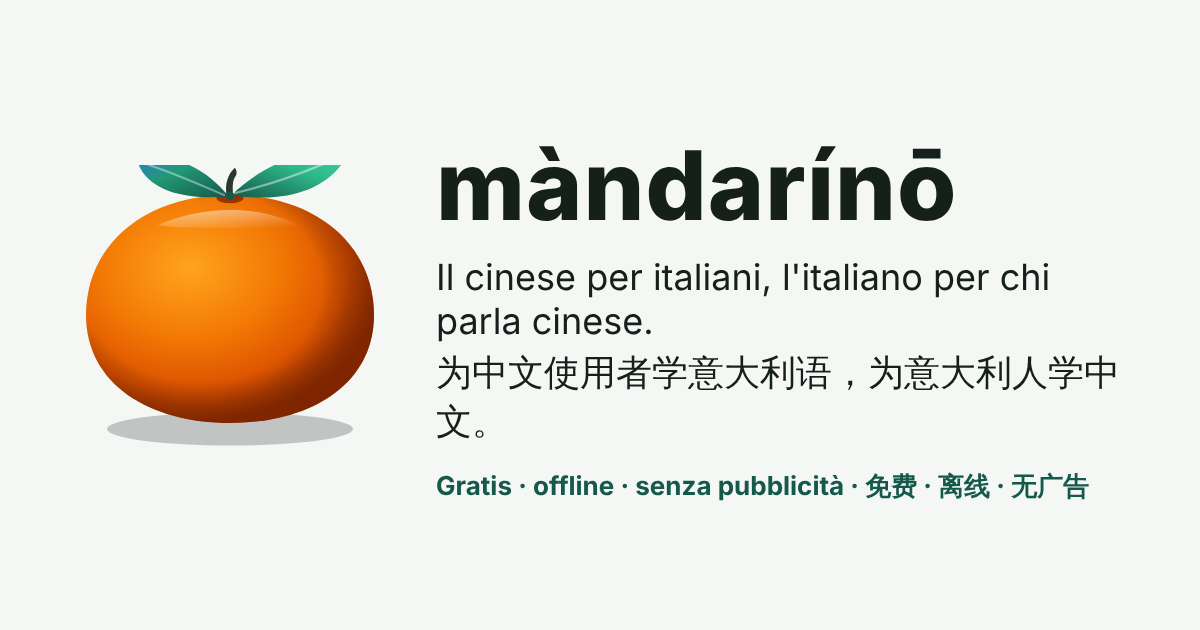
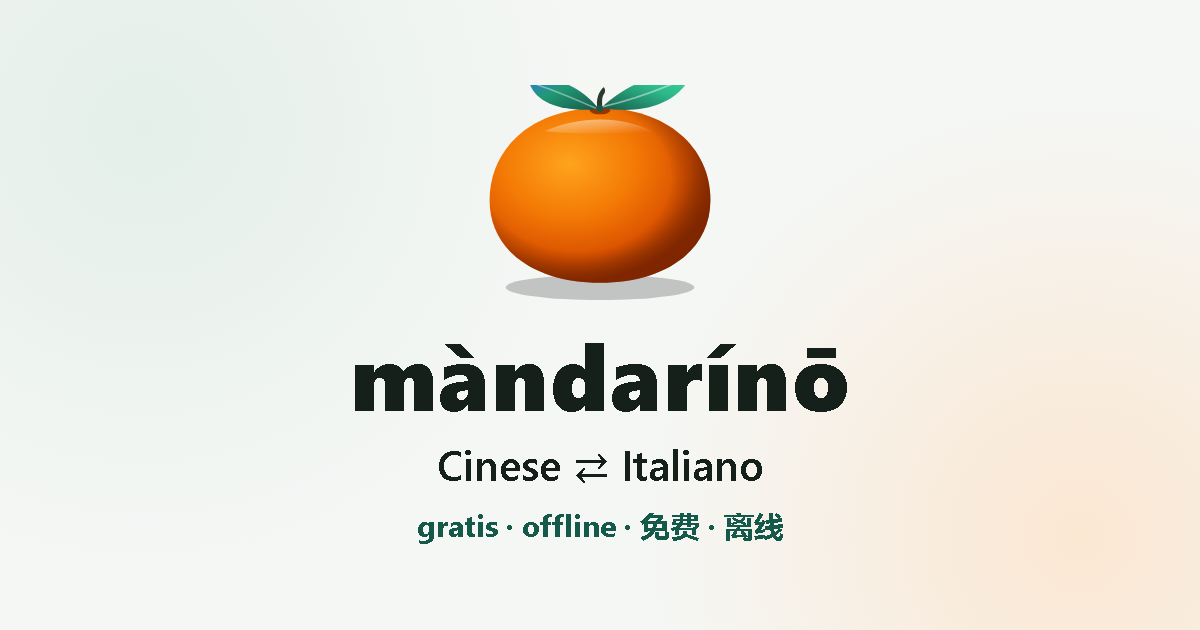
Scambio linguistico, parte 2: serie a caso di frasi e parole, tre autorizzazioni, un solo tasto per l'e-mail con il file preparato dall'app; anteprime dei link non più ritagliate

Changed region(s): [[0.0617, 0.1206, 1.0, 1.0], [0.3392, 0.8143, 0.6783, 0.8746]]

diff --git a/src/ui/scambio.js b/src/ui/scambio.js
@@ -7,10 +7,10 @@
    come vuole (Condividi o e-mail). Nessuna rete. Si carica al primo uso di CP.scambio. ===== */
 (function () {
   var CP = window.CP, T = CP.t, esc = CP.esc, LIM = 8000, MAXSEND = 200, SITE = "https://mandarinoapp.org/partecipa-voci.html?da=app", MAIL = "mandarinoapp@gmail.com";
-  var DB = null, S = { cur: null, skip: {}, rec: null, blob: null, ms: 0, busy: false, mime: "", err: "", sentFile: null };
+  var DB = null, PRE = null, S = { queue: null, qi: 0, cur: null, skip: {}, rec: null, blob: null, ms: 0, busy: false, mime: "", err: "", sentFile: null };
 
   /* ---- consenso (localStorage, chiave senza «cp-»: non entra nei backup) ---- */
-  function consent() { try { var o = JSON.parse(localStorage.getItem("md-voice-consent") || "null"); return o && o.age && o.ok ? o : null; } catch (e) { return null; } }
+  function consent() { try { var o = JSON.parse(localStorage.getItem("md-voice-consent") || "null"); return o && o.age && o.ok && o.pub ? o : null; } catch (e) { return null; } }
   function setConsent(o) { try { if (o) localStorage.setItem("md-voice-consent", JSON.stringify(o)); else localStorage.removeItem("md-voice-consent"); } catch (e) {} }
   function opt(k, v) { var o = consent() || {}; o[k] = v; setConsent(o); }
 
@@ -61,12 +61,28 @@
   }
   function textOf(p, lang) { return lang === "zh-CN" ? p.zh : p.it; }
   function recId(ref, lang, nat) { return ref + "|" + lang + "|" + (nat ? "n" : "x"); }
-  function nextSentence(recs) {
+  /* le parole: il carattere e il suo significato breve (riferimento w:<parola>) */
+  var WPOOL = null;
+  function words() {
+    if (WPOOL) return WPOOL;
+    WPOOL = [];
+    (CP.ORDER || []).forEach(function (k) {
+      var w = CP.WORDS[k]; if (!w) return;
+      var g = String(CP.gloss ? CP.gloss(w) : ""), hz = w.hz;
+      if (hz && Array.from(hz).length <= 4 && g && g.length <= 24 && !/[;(\/]/.test(g)) WPOOL.push({ ref: "w:" + hz, zh: hz, it: g, word: true });
+    });
+    return WPOOL;
+  }
+  function shuffle(a) { a = a.slice(); for (var i = a.length - 1; i > 0; i--) { var j = Math.floor(Math.random() * (i + 1)), t = a[i]; a[i] = a[j]; a[j] = t; } return a; }
+  var SERIES = 10, WORDS_PER = 3;
+  /* una serie a caso di frasi (7) e parole (3) non ancora registrate né saltate, mescolate */
+  function makeQueue(recs) {
     var lang = curLang(), nat = native(), have = {};
     recs.forEach(function (r) { have[r.id] = 1; });
-    var P = pool();
-    for (var i = 0; i < P.length; i++) { var id = recId(P[i].ref, lang, nat); if (!have[id] && !S.skip[id]) return P[i]; }
-    return null;
+    function free(p) { var id = recId(p.ref, lang, nat); return !have[id] && !S.skip[id]; }
+    var sen = shuffle(pool().filter(free)).slice(0, SERIES - WORDS_PER), wd = shuffle(words().filter(free)).slice(0, WORDS_PER);
+    if (sen.length < SERIES - WORDS_PER) wd = shuffle(words().filter(free)).slice(0, SERIES - sen.length);
+    return shuffle(sen.concat(wd));
   }
 
   /* ---- la registrazione ---- */
@@ -125,20 +141,42 @@
     });
   }
   function markSent(ids) { return all().then(function (rs) { return Promise.all(rs.filter(function (r) { return ids.indexOf(r.id) >= 0; }).map(function (r) { r.sent = Date.now(); return put(r); })); }); }
-  function send(how) {
-    all().then(function (rs) {
-      rs = rs.filter(function (r) { return !r.sent; });
-      if (!rs.length || !CP._zip) return;
-      return buildZip(rs).then(function (z) {
-        var name = "mandarino-voci-" + new Date().toISOString().slice(0, 10) + ".zip", file;
-        try { file = new File([z.blob], name, { type: "application/zip" }); } catch (e) { file = null; }
-        var done = function () { return markSent(z.ids).then(function () { S.sentFile = name; render(); }); };
-        if (how === "share" && file && navigator.canShare && navigator.canShare({ files: [file] })) return navigator.share({ files: [file], title: "màndarínō · voci" }).then(done, function () {});
-        var u = URL.createObjectURL(z.blob), a = document.createElement("a");
-        a.href = u; a.download = name; document.body.appendChild(a); a.click(); a.parentNode.removeChild(a); setTimeout(function () { URL.revokeObjectURL(u); }, 4000);
-        return done();
-      });
+  /* il file si prepara in anticipo, appena si apre il foglio: così il tocco su «Invia» condivide subito (il telefono vuole che
+     Condividi parta da un tocco) */
+  function prepare(rs) {
+    PRE = null;
+    var todo = rs.filter(function (r) { return !r.sent; });
+    if (!todo.length || !CP._zip) return;
+    buildZip(todo).then(function (z) {
+      var name = "mandarino-voci-" + new Date().toISOString().slice(0, 10) + ".zip", file = null;
+      try { file = new File([z.blob], name, { type: "application/zip" }); } catch (e) {}
+      PRE = { z: z, name: name, file: file };
     });
+  }
+  function body(name) {
+    var c = consent() || {};
+    return T("sc.s.body", { f: name, n: c.show && c.nick ? c.nick : "" });
+  }
+  function download(z, name) {
+    var u = URL.createObjectURL(z.blob), a = document.createElement("a");
+    a.href = u; a.download = name; document.body.appendChild(a); a.click(); a.parentNode.removeChild(a); setTimeout(function () { URL.revokeObjectURL(u); }, 4000);
+  }
+  /* «mail»: con Condividi (dove c'è) il telefono apre la scelta dell'e-mail con il file già allegato; altrimenti scarica il file e apre
+     la bozza dell'e-mail. «file»: solo il file. Si parte solo se le tre autorizzazioni sono firmate. */
+  function send(how) {
+    if (!consent()) { consentSheet(); return; }
+    var go = function (pre) {
+      var done = function () { return markSent(pre.z.ids).then(function () { S.sentFile = pre.name; render(); }); };
+      var subject = T("sc.s.subject");
+      if (how === "mail" && pre.file && navigator.canShare && navigator.canShare({ files: [pre.file] })) {
+        return navigator.share({ files: [pre.file], title: subject, text: body(pre.name) }).then(done, function () {});
+      }
+      download(pre.z, pre.name);
+      if (how === "mail") location.href = "mailto:" + MAIL + "?subject=" + encodeURIComponent(subject) + "&body=" + encodeURIComponent(body(pre.name));
+      return done();
+    };
+    if (PRE) return go(PRE);
+    all().then(function (rs) { prepare(rs); var t = setInterval(function () { if (PRE) { clearInterval(t); go(PRE); } }, 80); setTimeout(function () { clearInterval(t); }, 4000); });
   }
 
   /* ---- i fogli ---- */
@@ -151,20 +189,22 @@
       '<label class="sc-f small"><span>' + esc(T("sc.c.region")) + '</span><select id="sc-region"><option value="">' + esc(T("sc.c.none")) + "</option>" + rg.map(function (x, i) { return '<option value="' + (i + 1) + '"' + (String(c.region) === String(i + 1) ? " selected" : "") + ">" + esc(x) + "</option>"; }).join("") + "</select></label>" +
       '<label class="sc-chk"><input id="sc-ok" type="checkbox" data-sc-chk> ' + esc(T("sc.c.ok1")) + "</label>" +
       '<label class="sc-chk"><input id="sc-age" type="checkbox" data-sc-chk> ' + esc(T("sc.c.ok2")) + "</label>" +
+      '<label class="sc-chk"><input id="sc-pub" type="checkbox" data-sc-chk> ' + esc(T("sc.c.ok3")) + "</label>" +
       '<div class="acts"><button type="button" class="btn-main" id="sc-go" data-sc-go disabled>' + esc(T("sc.c.go")) + "</button></div>" +
       '<p class="small muted">' + esc(T("sc.priv")) + "</p>";
     CP.openSheet(h);
   }
   function mainSheet(recs) {
     var c = consent() || {}, sent = recs.filter(function (r) { return r.sent; }).length, todo = recs.length - sent, h;
+    prepare(recs);
     h = '<div class="fam-head"><div class="meta"><b>' + esc(T("sc.title")) + '</b><div class="small muted">' + esc(T("sc.have", { n: recs.length, s: sent })) + '</div></div><button type="button" class="fam-x btn-s" data-famclose>' + esc(T("common.close")) + "</button></div>";
     h += '<div class="acts"><button type="button" class="btn-main" data-sc-rec="own">🎙 ' + esc(T("sc.m.rec")) + "</button>" + (c.other ? '<button type="button" class="btn-s" data-sc-rec="other">🎙 ' + esc(T("sc.m.recOther")) + "</button>" : "") + "</div>";
     h += '<label class="sc-chk small"><input id="sc-other" type="checkbox" data-sc-other' + (c.other ? " checked" : "") + "> " + esc(T("sc.m.other")) + '</label><p class="small muted" style="margin:0 0 8px">' + esc(T("sc.m.otherNote")) + "</p>";
     if (todo) {
-      h += '<p class="small muted">' + esc(T("sc.s.help")) + '</p><div class="acts">' + (navigator.canShare ? '<button type="button" class="btn-s" data-sc-send="share">📤 ' + esc(T("sc.s.share")) + " (" + todo + ")</button>" : "") +
-        '<button type="button" class="btn-s" data-sc-send="file">⬇ ' + esc(T("sc.s.file")) + " (" + todo + ")</button></div>";
+      h += '<p class="small muted">' + esc(T("sc.s.help")) + '</p><div class="acts"><button type="button" class="btn-main" data-sc-send="mail">📧 ' + esc(T("sc.s.mail")) + " (" + todo + ')</button>' +
+        '<button type="button" class="btn-s" data-sc-send="file">⬇ ' + esc(T("sc.s.file")) + "</button></div>";
     }
-    if (S.sentFile) h += '<p class="small okline" role="status">' + esc(T("sc.s.done", { f: S.sentFile })) + ' <a href="mailto:' + MAIL + "?subject=" + encodeURIComponent("màndarínō · voci") + '">' + esc(MAIL) + "</a></p>";
+    if (S.sentFile) h += '<p class="small okline" role="status">' + esc(T("sc.s.done", { f: S.sentFile })) + ' <a href="mailto:' + MAIL + "?subject=" + encodeURIComponent(T("sc.s.subject")) + '">' + esc(MAIL) + "</a></p>";
     h += '<p class="small"><a href="' + SITE + '" target="_blank" rel="noopener">' + esc(T("sc.c.site")) + "</a> · " + esc(T("sc.c.siteNote")) + "</p>";
     if (recs.length) {
       h += '<h4 class="set-h">' + esc(T("sc.m.list")) + '</h4><ul class="sc-list">' + recs.map(function (r) {
@@ -177,16 +217,19 @@
     CP.openSheet(h);
   }
   function recSheet(recs) {
-    var p = S.cur = S.cur || nextSentence(recs), lang = curLang();
+    if (!S.queue) { S.queue = makeQueue(recs); S.qi = 0; }
+    var p = S.cur = S.queue[S.qi] || null, lang = curLang();
     var h = '<div class="fam-head"><div class="meta"><b>🎙 ' + esc(T("sc.m.rec")) + '</b>' + (native() ? "" : '<div class="small muted">' + esc(T("sc.m.nn")) + "</div>") + '</div><button type="button" class="fam-x btn-s" data-sc-back>' + esc(T("sc.r.back")) + "</button></div>";
-    if (!p) { CP.openSheet(h + '<p>' + esc(T("sc.r.none")) + "</p>"); return; }
-    h += '<p class="small muted" style="margin:0">' + esc(T("sc.r.prompt")) + '</p><p class="sc-big" lang="' + lang + '">' + esc(textOf(p, lang)) + '</p><p class="small muted" lang="' + (lang === "zh-CN" ? "it-IT" : "zh-CN") + '">' + esc(textOf(p, lang === "zh-CN" ? "it-IT" : "zh-CN")) + "</p>";
+    if (!p) { CP.openSheet(h + '<p>' + esc(T(S.queue.length ? "sc.r.done" : "sc.r.none")) + '</p><div class="acts">' + (S.queue.length ? '<button type="button" class="btn-main" data-sc-more>' + esc(T("sc.r.more")) + "</button>" : "") + '<button type="button" class="btn-s" data-sc-back>' + esc(T("sc.r.back")) + "</button></div>"); return; }
+    h += '<p class="small muted" style="margin:0">' + esc(T("sc.r.prompt")) + " · " + (S.qi + 1) + " / " + S.queue.length + (p.word ? " · " + esc(T("sc.r.word")) : "") + '</p><p class="sc-big" lang="' + lang + '">' + esc(textOf(p, lang)) + '</p><p class="small muted" lang="' + (lang === "zh-CN" ? "it-IT" : "zh-CN") + '">' + esc(textOf(p, lang === "zh-CN" ? "it-IT" : "zh-CN")) + "</p>";
     if (S.err) h += '<p class="small" role="alert">' + esc(S.err) + "</p>";
     if (S.busy) h += '<div class="acts"><button type="button" class="btn-main" data-sc-stop>⏹ ' + esc(T("sc.r.stop")) + '</button></div><p class="small muted" role="status">' + esc(T("sc.r.limit")) + "</p>";
     else if (S.blob) h += '<div class="acts"><button type="button" class="btn-s" data-sc-prev>▶ ' + esc(T("sc.m.play")) + '</button><button type="button" class="btn-main" data-sc-keep>' + esc(T("sc.r.keep")) + '</button><button type="button" class="btn-s" data-sc-redo>' + esc(T("sc.r.redo")) + "</button></div>";
     else h += '<div class="acts"><button type="button" class="btn-main" data-sc-start>🎙 ' + esc(T("sc.r.start")) + '</button><button type="button" class="btn-s" data-sc-skip>' + esc(T("sc.r.skip")) + "</button></div>";
     CP.openSheet(h);
   }
+  /* le tre autorizzazioni, tutte spuntate: ho capito, ho 18 anni, autorizzo la pubblicazione CC BY 4.0 */
+  function allSigned() { return ["sc-ok", "sc-age", "sc-pub"].every(function (i) { var e = document.getElementById(i); return e && e.checked; }); }
   var view = "main";
   function render() { all().then(function (recs) { if (view === "rec") recSheet(recs); else mainSheet(recs); }); }
   function open() { if (!consent()) { consentSheet(); return; } view = "main"; S.useOther = false; render(); }
@@ -196,27 +239,28 @@
   function playBlob(b) { try { if (audio) audio.pause(); var u = URL.createObjectURL(b); audio = new Audio(u); audio.onended = function () { URL.revokeObjectURL(u); }; audio.play(); } catch (e) {} }
   document.addEventListener("change", function (e) {
     var t = e.target; if (!t || !t.closest) return;
-    if (t.id === "sc-ok" || t.id === "sc-age") { var go = document.getElementById("sc-go"); if (go) go.disabled = !(document.getElementById("sc-ok").checked && document.getElementById("sc-age").checked); }
+    if (t.id === "sc-ok" || t.id === "sc-age" || t.id === "sc-pub") { var go = document.getElementById("sc-go"); if (go) go.disabled = !allSigned(); }
     if (t.hasAttribute && t.hasAttribute("data-sc-other")) opt("other", t.checked);
   });
   document.addEventListener("click", function (e) {
     var b = e.target.closest ? e.target.closest("[data-sc-go],[data-sc-rec],[data-sc-back],[data-sc-start],[data-sc-stop],[data-sc-prev],[data-sc-keep],[data-sc-redo],[data-sc-skip],[data-sc-play],[data-sc-del],[data-sc-send],[data-sc-revoke]") : null; if (!b) return;
     if (b.hasAttribute("data-sc-go")) {
-      if (!(document.getElementById("sc-ok").checked && document.getElementById("sc-age").checked)) return;
-      setConsent({ v: 1, t: Date.now(), ok: true, age: true, nick: document.getElementById("sc-nick").value.trim(), show: document.getElementById("sc-show").checked, region: document.getElementById("sc-region").value, other: false, lang: ownLang() });
+      if (!allSigned()) return;
+      setConsent({ v: 2, t: Date.now(), ok: true, age: true, pub: true, nick: document.getElementById("sc-nick").value.trim(), show: document.getElementById("sc-show").checked, region: document.getElementById("sc-region").value, other: false, lang: ownLang() });
       CP.sfx("tap"); open();
-    } else if (b.hasAttribute("data-sc-rec")) { view = "rec"; S.useOther = b.getAttribute("data-sc-rec") === "other"; S.cur = null; S.blob = null; S.err = ""; render(); }
-    else if (b.hasAttribute("data-sc-back")) { if (S.rec) S.rec.stop(); view = "main"; S.cur = null; S.blob = null; S.busy = false; render(); }
+    } else if (b.hasAttribute("data-sc-rec")) { view = "rec"; S.useOther = b.getAttribute("data-sc-rec") === "other"; S.queue = null; S.cur = null; S.blob = null; S.err = ""; render(); }
+    else if (b.hasAttribute("data-sc-back")) { if (S.rec) S.rec.stop(); view = "main"; S.queue = null; S.cur = null; S.blob = null; S.busy = false; render(); }
     else if (b.hasAttribute("data-sc-start")) start();
     else if (b.hasAttribute("data-sc-stop")) { if (S.rec) S.rec.stop(); }
     else if (b.hasAttribute("data-sc-prev")) { if (S.blob) playBlob(S.blob); }
-    else if (b.hasAttribute("data-sc-keep")) { keep().then(render); }
+    else if (b.hasAttribute("data-sc-keep")) { keep().then(function () { S.qi++; render(); }); }
+    else if (b.hasAttribute("data-sc-more")) { S.queue = null; S.skip = {}; render(); }
     else if (b.hasAttribute("data-sc-redo")) { S.blob = null; S.err = ""; render(); }
-    else if (b.hasAttribute("data-sc-skip")) { if (S.cur) S.skip[recId(S.cur.ref, curLang(), native())] = 1; S.cur = null; S.blob = null; render(); }
+    else if (b.hasAttribute("data-sc-skip")) { if (S.cur) S.skip[recId(S.cur.ref, curLang(), native())] = 1; S.qi++; S.cur = null; S.blob = null; render(); }
     else if (b.hasAttribute("data-sc-play")) { var id = b.getAttribute("data-sc-play"); all().then(function (rs) { var r = rs.filter(function (x) { return x.id === id; })[0]; if (r) playBlob(r.blob); }); }
     else if (b.hasAttribute("data-sc-del")) { del(b.getAttribute("data-sc-del")).then(function () { CP.sfx("tap"); render(); }); }
     else if (b.hasAttribute("data-sc-send")) send(b.getAttribute("data-sc-send"));
     else if (b.hasAttribute("data-sc-revoke")) { clear().then(function () { setConsent(null); S.sentFile = null; CP.closeSheet(); if (CP.toast) CP.toast(T("sc.m.revoked")); }); }
   });
-  CP.scambio = { open: open, consent: consent, all: all, put: put, del: del, clear: clear, pool: pool, ownLang: ownLang, manifest: manifest, buildZip: buildZip, SITE: SITE };
+  CP.scambio = { makeQueue: makeQueue, words: words, send: send, open: open, consent: consent, all: all, put: put, del: del, clear: clear, pool: pool, ownLang: ownLang, manifest: manifest, buildZip: buildZip, SITE: SITE };
 })();

diff --git a/src/i18n/scambio.js b/src/i18n/scambio.js
@@ -15,7 +15,7 @@ Object.assign(I18N.it, {
  "sc.c.none": "Preferisco non dirlo",
  "sc.c.ok1": "Ho letto e capito",
  "sc.c.ok2": "Ho almeno 18 anni",
- "sc.c.go": "Accetto e continuo",
+ "sc.c.ok3": "Autorizzo la pubblicazione delle mie registrazioni con licenza CC BY 4.0 se le invio", "sc.c.go": "Accetto e continuo",
  "sc.c.site": "Modulo del consenso sul sito",
  "sc.c.siteNote": "si apre nel browser; la firma sul sito non è obbligatoria per registrare.",
  "sc.priv": "Il foglio che hai appena letto è anche una pagina del sito mandarinoapp.org, a cui arrivi solo da qui. Niente viene inviato finché non decidi tu.",
@@ -43,8 +43,8 @@ Object.assign(I18N.it, {
  "sc.r.saved": "Registrazione salvata.",
  "sc.r.err": "Il microfono non parte: controlla il permesso e riprova.",
  "sc.r.none": "Hai già registrato tutte le frasi disponibili. Grazie!",
- "sc.r.limit": "Al massimo 8 secondi per frase.",
- "sc.s.help": "Si crea un file .zip con le registrazioni e le informazioni che hai dato; poi lo mandi tu (Condividi, oppure per e-mail). Nessun caricamento automatico.",
+ "sc.r.limit": "Al massimo 8 secondi per frase.", "sc.r.word": "parola", "sc.r.done": "Serie finita, grazie! Vuoi un'altra serie a caso?", "sc.r.more": "Un'altra serie",
+ "sc.s.help": "L'app prepara da sola il file con le tue registrazioni. Il tasto qui sotto apre l'e-mail (con il file già allegato, dove il telefono lo permette): l'invio lo fai tu. Nessun caricamento automatico.", "sc.s.mail": "Invia per e-mail", "sc.s.subject": "màndarínō · voci di madrelingua", "sc.s.body": "Ciao, ti mando le mie registrazioni per lo scambio linguistico di màndarínō (file: {f}). Dichiaro di aver letto e capito il foglio del consenso, di avere almeno 18 anni e di autorizzare la pubblicazione con licenza CC BY 4.0. {n}",
  "sc.s.share": "Condividi",
  "sc.s.file": "Scarica il file",
  "sc.s.done": "File pronto: {f}. Mandalo a"
@@ -65,7 +65,7 @@ Object.assign(I18N.zh, {
  "sc.c.none": "不想说",
  "sc.c.ok1": "我已阅读并理解",
  "sc.c.ok2": "我已年满 18 岁",
- "sc.c.go": "同意并继续",
+ "sc.c.ok3": "如果我发送录音，我授权以 CC BY 4.0 许可发布", "sc.c.go": "同意并继续",
  "sc.c.site": "网站上的同意书",
  "sc.c.siteNote": "会在浏览器中打开；录音并不要求在网站上签署。",
  "sc.priv": "你刚读过的同意书同时也是 mandarinoapp.org 网站上的一个页面，只能从这里进入。你决定之前，不会发送任何东西。",
@@ -93,8 +93,8 @@ Object.assign(I18N.zh, {
  "sc.r.saved": "录音已保存。",
  "sc.r.err": "麦克风没有启动：请检查权限后再试。",
  "sc.r.none": "能录的句子你都录完了。谢谢！",
- "sc.r.limit": "每句最多 8 秒。",
- "sc.s.help": "会生成一个 .zip 文件，包含录音和你填写的信息；然后由你自己发送（分享，或通过电子邮件）。不会自动上传。",
+ "sc.r.limit": "每句最多 8 秒。", "sc.r.word": "词", "sc.r.done": "这一组录完了，谢谢！再来一组随机的吗？", "sc.r.more": "再来一组",
+ "sc.s.help": "应用会自动准备好包含你录音的文件。下面的按钮会打开电子邮件（在手机支持时已附上文件）：由你自己发送。不会自动上传。", "sc.s.mail": "通过电子邮件发送", "sc.s.subject": "màndarínō · 母语录音", "sc.s.body": "你好，这是我为 màndarínō 语言交换录的音（文件：{f}）。我声明已阅读并理解同意书，已年满 18 岁，并授权以 CC BY 4.0 许可发布。{n}",
  "sc.s.share": "分享",
  "sc.s.file": "下载文件",
  "sc.s.done": "文件已准备好：{f}。请发送到"

diff --git a/docs/partecipa-voci.html b/docs/partecipa-voci.html
@@ -70,6 +70,7 @@ button[disabled] { opacity: .45; cursor: default; } button.sec { background: tra
 <label>Regione di provenienza (facoltativa) · <span lang="zh-CN">出生地区（可不填）</span><input id="f-region" type="text" maxlength="40" autocomplete="off" placeholder="es. Sicilia · 例如：四川"></label>
 <label class="row"><input id="f-ok" type="checkbox"><span>Ho letto e capito · <span lang="zh-CN">我已阅读并理解</span></span></label>
 <label class="row"><input id="f-age" type="checkbox"><span>Ho almeno 18 anni · <span lang="zh-CN">我已年满 18 岁</span></span></label>
+<label class="row"><input id="f-pub" type="checkbox"><span>Autorizzo la pubblicazione delle mie registrazioni con licenza CC BY 4.0 se le invio · <span lang="zh-CN">如果我发送录音，我授权以 CC BY 4.0 许可发布</span></span></label>
 <div class="acts"><button id="f-mail" type="button" disabled>Prepara l'e-mail · 准备邮件</button><button id="f-print" type="button" class="sec">Stampa o salva in PDF · 打印或存为 PDF</button></div>
 <p class="mute" id="f-note"></p>
 </form>
@@ -79,14 +80,15 @@ button[disabled] { opacity: .45; cursor: default; } button.sec { background: tra
 (function () {
   var q = new URLSearchParams(location.search);
   if (q.get("da") !== "app") document.documentElement.classList.add("nogate"), document.body.classList.add("nogate");
-  var ok = document.getElementById("f-ok"), age = document.getElementById("f-age"), mail = document.getElementById("f-mail");
-  function upd() { mail.disabled = !(ok.checked && age.checked); }
-  ok.addEventListener("change", upd); age.addEventListener("change", upd);
+  var ok = document.getElementById("f-ok"), age = document.getElementById("f-age"), pub = document.getElementById("f-pub"), mail = document.getElementById("f-mail");
+  function upd() { mail.disabled = !(ok.checked && age.checked && pub.checked); }
+  ok.addEventListener("change", upd); age.addEventListener("change", upd); pub.addEventListener("change", upd);
   mail.addEventListener("click", function () {
     var v = function (id) { return document.getElementById(id).value.trim(); };
     var body = ["Scambio linguistico · consenso / 语言交换 · 同意书", "",
       "Ho letto e capito il foglio del consenso (licenza CC BY 4.0) / 我已阅读并理解同意书（CC BY 4.0 许可）: sì / 是",
       "Ho almeno 18 anni / 我已年满 18 岁: sì / 是",
+      "Autorizzo la pubblicazione con licenza CC BY 4.0 / 授权以 CC BY 4.0 许可发布: sì / 是",
       "Lingua madre / 母语: " + document.getElementById("f-lang").value,
       "Nome o nickname / 姓名或昵称: " + (v("f-nick") || "-"),
       "Può comparire nei Crediti / 可出现在致谢: " + (document.getElementById("f-show").checked ? "sì / 是" : "no / 否"),

diff --git a/src/data/changelog.js b/src/data/changelog.js
@@ -6,7 +6,7 @@
 var CHANGELOG = [
   { v: "6.7", d: "2026-10",
     it: [
-      "Scambio linguistico (facoltativo): registra con la tua voce frasi nella tua lingua madre, per aiutare chi studia. Tutto resta sul telefono finché non decidi tu di mandarlo; prima c'è un foglio del consenso e serve avere 18 anni.",
+      "Scambio linguistico (facoltativo): registra con la tua voce frasi nella tua lingua madre, per aiutare chi studia. Frasi e parole a caso, tutto sul telefono finché non decidi tu: un solo tasto prepara il file e apre l'e-mail. Prima c'è un foglio del consenso e serve avere 18 anni.",
       "Corso di italiano: anche il tuo Taccuino del viaggiatore, da Guilin a Roma. Ogni lezione superata ti porta più vicino alla prossima città.",
       "Grammatica più ricca: 55 lezioni per il cinese e 51 per l'italiano, con mini-dialoghi, esempi con audio e un ripasso ogni cinque lezioni.",
       "Apertura animata: i quattro toni volano sulle lettere e sulle foglie del logo.",
@@ -17,7 +17,7 @@ var CHANGELOG = [
       "Su Android: widget «Oggi» e «Pausa» in stile Giada, che cambiano con l'ora (mattina, pomeriggio, sera, notte)."
     ],
     zh: [
-      "语言交换（可选）：用你的母语录下句子，帮助学习的人。在你决定发送之前，一切都只保存在手机上；录音前有同意书，需年满 18 岁。",
+      "语言交换（可选）：用你的母语录下句子，帮助学习的人。随机句子和词语，在你决定之前一切都只保存在手机上：一个按钮就会准备好文件并打开电子邮件。录音前有同意书，需年满 18 岁。",
       "意大利语课程也有旅行手账了：从桂林到罗马，每通过一课，就离下一座城市更近。",
       "语法更丰富：中文 55 课、意大利语 51 课，带小对话、有声例句，每五课一次复习。",
       "启动动画：四个声调飞到标志的字母和两片叶子上。",

diff --git a/docs/zh/index.html b/docs/zh/index.html
@@ -6,6 +6,14 @@
 <title>màndarínō · 给中国人的意大利语</title>
 <meta name="description" content="免费、离线、无广告、无需注册的意大利语学习应用。">
 <meta name="theme-color" content="#14594A">
+<meta property="og:title" content="màndarínō · 给中国人的意大利语">
+<meta property="og:description" content="免费、离线、无广告、无需注册的意大利语学习应用。">
+<meta property="og:image" content="https://mandarinoapp.org/img/anteprima.png">
+<meta property="og:image:width" content="1200">
+<meta property="og:image:height" content="630">
+<meta property="og:url" content="https://mandarinoapp.org/zh/">
+<meta property="og:type" content="website">
+<meta name="twitter:card" content="summary_large_image">
 <link rel="icon" href="../icon.svg" type="image/svg+xml">
 <!-- 中文介绍页（分享卡片上的二维码指向这里）。轻量：没有外部字体、脚本、图片或统计。
      唯一的脚本在页面里：只判断是不是微信内置浏览器，是的话提示“在浏览器中打开”。不发送任何东西。 -->

diff --git a/docs/index.html b/docs/index.html
@@ -10,6 +10,10 @@
 <meta property="og:title" content="màndarínō">
 <meta property="og:description" content="Il cinese per italiani, l'italiano per chi parla cinese. Gratis, offline, senza pubblicità. 免费、离线、无广告。">
 <meta property="og:image" content="https://mandarinoapp.org/img/anteprima.png">
+<meta property="og:image:width" content="1200">
+<meta property="og:image:height" content="630">
+<meta property="og:image:alt" content="L'icona di màndarínō, il mandarino, e la scritta Cinese ⇄ Italiano, gratis e offline.">
+<meta name="twitter:image" content="https://mandarinoapp.org/img/anteprima.png">
 <meta property="og:url" content="https://mandarinoapp.org/">
 <meta property="og:type" content="website">
 <meta name="twitter:card" content="summary_large_image">

diff --git a/docs/scambio-linguistico.md b/docs/scambio-linguistico.md
@@ -1,8 +1,9 @@
 # Scambio linguistico: voci di madrelingua
 
-> **Stato (ottobre 2026): attivo, prima parte.** Nell'app ci sono il foglio del consenso, la registrazione, l'elenco con ascolto e
-> cancellazione, e l'invio come `.zip`. **Non ci sono ancora** l'importazione (`tools/merge-contrib.mjs` per `mandarino-voice/1`) e il
-> pacchetto voci scaricabile: arrivano quando ci sono le prime registrazioni da provare. Le decisioni qui sotto sono di chi gestisce il progetto.
+> **Stato (ottobre 2026): attivo, parti 1 e 2.** Nell'app ci sono il foglio del consenso (tre autorizzazioni), la registrazione di una
+> serie a caso di frasi e parole, l'elenco con ascolto e cancellazione, e un solo tasto «Invia per e-mail» che prepara il `.zip` da sé.
+> **Non ci sono ancora** l'importazione (`tools/merge-contrib.mjs` per `mandarino-voice/1`) e il pacchetto voci scaricabile: arrivano
+> quando ci sono le prime registrazioni da provare. Le decisioni qui sotto sono di chi gestisce il progetto.
 
 ## L'idea
 
@@ -28,18 +29,20 @@ studia la frase nella propria lingua accanto alla traduzione, quindi l'esercizio
 
 ## Che cosa si registra
 
-- **Solo frasi che esistono già nell'app**, con i riferimenti di `tools/review-sample.mjs`: `phr:<gruppo>:<riga>` (frasi di tutti i
-  giorni), `dlg:<id>:<riga>` (battute dei dialoghi), `ex:<parola>` (frasi d'esempio). Niente testo libero: nessun rischio di contenuti
-  personali dentro le registrazioni.
-- Una frase per volta, con il testo grande e la traduzione sotto. Si può riascoltare, tenere o rifare; «Un'altra frase» salta.
+- **Solo frasi e parole che esistono già nell'app**, con i riferimenti di `tools/review-sample.mjs`: `phr:<gruppo>:<riga>` (frasi di tutti i
+  giorni), `dlg:<id>:<riga>` (battute dei dialoghi), `ex:<parola>` (frasi d'esempio) e `w:<parola>` (singole parole con il significato
+  breve). Niente testo libero: nessun rischio di contenuti personali dentro le registrazioni.
+- **Si registra solo dal foglio dello scambio**, che pesca a caso: una *serie* di 10 elementi (7 frasi e 3 parole) non ancora registrati né
+  saltati, senza doppioni; finita la serie, «Un'altra serie». Non ci sono pulsanti 🎙 in altri punti dell'app.
+- Una voce per volta, con il testo grande, il contatore («3 / 10») e la traduzione sotto. Si può riascoltare, tenere o rifare; «Un'altra frase» salta.
 - Si registra nella **propria** lingua: cinese nel corso di italiano (interfaccia in cinese), italiano nel corso di cinese.
 
 ## Il foglio del consenso
 
 Nell'app: ⚙ → Suoni e musica → **Scambio linguistico: la tua voce** → *Partecipa*. Otto punti (che cosa si registra e dove resta,
 CC BY 4.0, la voce si riconosce, chi ascolta, nome e regione, come chiedere di togliere una registrazione, solo maggiorenni, lingua
-madre), nome o nickname e regione facoltativi, due caselle non spuntate di base («Ho letto e capito», «Ho almeno 18 anni») e il
-pulsante «Accetto e continuo», spento finché non sono spuntate entrambe. Il consenso resta sul telefono in `md-voice-consent`
+madre), nome o nickname e regione facoltativi, tre caselle non spuntate di base («Ho letto e capito», «Ho almeno 18 anni», «Autorizzo la pubblicazione con licenza CC BY 4.0 se le invio») e il
+pulsante «Accetto e continuo», spento finché non sono spuntate tutte. Il consenso resta sul telefono in `md-voice-consent`
 (chiave senza il prefisso `cp-`: non entra nei backup né nella sincronizzazione). *Ritira il consenso e cancella tutto* toglie
 registrazioni e consenso dal telefono.
 
@@ -66,9 +69,11 @@ stampare o salvare in PDF. Per registrare basta il foglio dell'app; il modulo è
 
 - **Sul telefono**: IndexedDB `mandarino-voices-v1`, fuori dal backup e dalla sincronizzazione (pesano e sono personali). Un elenco
   nel foglio mostra le registrazioni con ascolto (▶) e cancellazione (×).
-- **L'invio**: *Condividi* (dove il telefono lo permette) o *Scarica il file*, poi la persona manda il `.zip` a mandarinoapp@gmail.com o
-  dove preferisce (come allegato a una issue, il limite è 25 MB). Le registrazioni incluse si segnano «inviata». **Nessun
-  caricamento automatico, nessuna richiesta di rete.**
+- **L'invio**: il file `.zip` lo crea l'app da sé, in anticipo, appena si apre il foglio. Un solo tasto principale, **«Invia per e-mail»**:
+  dove il telefono lo permette apre la condivisione con il file già allegato e il testo del consenso pronto per mandarinoapp@gmail.com;
+  altrimenti scarica il file e apre la bozza dell'e-mail (da allegare a mano). Parte solo se le tre autorizzazioni sono firmate
+  (senza, riappare il foglio). Un secondo tasto, «Scarica il file», salva solo il `.zip`. Le registrazioni incluse si segnano «inviata».
+  Il tasto prepara l'invio, l'invio lo fa la persona: **nessun caricamento automatico, nessuna richiesta di rete.**
 
 ## Da fare dopo, quando ci sono le prime registrazioni
 
@@ -78,4 +83,3 @@ stampare o salvare in PDF. Per registrare basta il foglio dell'app; il modulo è
    −16 LUFS, Opus/Ogg). Il nickname va nei Crediti solo se permesso. Le registrazioni `native: false` non si pubblicano come madrelingua.
 3. Il **pacchetto voci** scaricabile a parte, come la musica (⚙ → Suoni e musica → «Voci di madrelingua (N MB)»), mai all'avvio; dove
    c'è una voce vera 🔊 la usa al posto della sintesi, con il segno «voce vera» e il nickname nei dettagli. Il peso dell'APK non cambia.
-4. 🎙 accanto alle frasi nel foglio della parola e nei dialoghi (oggi si registra dal foglio dello scambio).

diff --git a/docs/FUNZIONAMENTO.md b/docs/FUNZIONAMENTO.md
@@ -235,7 +235,7 @@ Il microfono usa il riconoscimento del sistema (`SpeechRecognition`; nell'APK il
 - **Sigilli di gratitudine** (印章): codici firmati (ECDSA P-256, `MDS1.<contenuto>.<firma>`) che si riscattano nell'app; 支 Sostegno, 交 Cultura, 永 Custodire; solo estetici. L'app non sa chi ha donato. Le chiavi pubbliche stanno in `src/config.js` (**oggi la lista è vuota**: il riscatto non è ancora attivo finché non si genera una chiave con `lo strumento che genera la chiave`).
 - **Taccuino del viaggiatore** (cinese): un viaggio immaginario Roma → Guilin; le città si sbloccano con le tappe del Percorso finite; gli sbagli non sono penalità (una coppia di parole scambiata diventa un aneddoto).
 - **Taccuino del viaggiatore** (corso di italiano per chi parla cinese): lo stesso viaggio **al contrario**, da Guilin a Roma. Le 11 città si raggiungono con le **lezioni superate** (≥ 80 %): 2, 5, 9, 14, 20, 26, 32, 38, 45 e 51 (tutte). Ogni pagina ha una riga scritta a mano e le frasi della lezione che ha aperto la città; non ci sono aneddoti sugli errori e non c'è condivisione. Sta in «我的进步», come una carta con un solo pulsante secondario.
-- **Scambio linguistico** (⚙ → Suoni e musica, facoltativo): chi studia il cinese registra frasi **italiane** e chi studia l'italiano registra frasi **cinesi**, la propria lingua, una frase dell'app per volta (frasi di tutti i giorni, dialoghi, esempi) con il testo davanti e la traduzione accanto. Prima c'è un foglio del consenso: licenza **CC BY 4.0**, solo maggiorenni (due caselle, l'app non può verificare l'età), nome o nickname e regione facoltativi, ascolta soltanto chi gestisce il progetto. Le registrazioni (fino a 8 s) restano sul telefono fuori dai backup; si ascoltano, si cancellano, e si mandano come `.zip` con `manifest.json` (Condividi o file da inviare a mandarinoapp@gmail.com): nessun caricamento automatico. Registrare anche la lingua che si studia è possibile solo se lo si attiva: quelle voci sono «non madrelingua». Il modulo del consenso è una pagina nascosta del sito (`partecipa-voci.html?da=app`), raggiungibile solo dopo la conferma nell'app. Importazione e pacchetto voci: da fare (docs/scambio-linguistico.md).
+- **Scambio linguistico** (⚙ → Suoni e musica, facoltativo): chi studia il cinese registra frasi **italiane** e chi studia l'italiano registra frasi **cinesi**, la propria lingua, solo dal foglio dello scambio, che pesca a caso una serie di 10 elementi (7 frasi dell'app e 3 parole) con il testo davanti e la traduzione accanto. Prima c'è un foglio del consenso: licenza **CC BY 4.0**, solo maggiorenni (tre caselle: ho capito, 18 anni, autorizzo la pubblicazione; l'app non può verificare l'età), nome o nickname e regione facoltativi, ascolta soltanto chi gestisce il progetto. Le registrazioni (fino a 8 s) restano sul telefono fuori dai backup; si ascoltano, si cancellano, e si mandano con un solo tasto «Invia per e-mail»: l'app crea da sé il `.zip` con `manifest.json` e apre l'e-mail verso mandarinoapp@gmail.com, solo se le tre autorizzazioni sono firmate. L'invio lo fa la persona, nessun caricamento automatico. Registrare anche la lingua che si studia è possibile solo se lo si attiva: quelle voci sono «non madrelingua». Il modulo del consenso è una pagina nascosta del sito (`partecipa-voci.html?da=app`), raggiungibile solo dopo la conferma nell'app. Importazione e pacchetto voci: da fare (docs/scambio-linguistico.md).
 - **Foglio di lavoro**: un PDF A4 personale (caratteri o parole più difficili + quelli delle ultime lezioni) da stampare e scrivere a mano; si può anche condividere come codice.
 
 ---
@@ -314,7 +314,7 @@ Dipendenze di terzi dentro l'app: pochi file in `src/vendor/` (jsPDF per il Fogl
 | Dati e lezioni validi, frasi cinesi fatte di parole del vocabolario, ogni file di dati elencato | `node tools/build.mjs` | passa |
 | Frasi verificate, regole di traduzione | `node tools/grammar.mjs` | 378/378 |
 | Prove veloci senza browser (taglio in parole, FSRS, QR, sigilli, sito, peso dell'avvio, widget) | `node tools/unit.mjs` | 79/79 |
-| Prove nel browser (benvenuto, corsi, immersione, sincronizzazione, QR, sigilli, musica, voce, impostazioni, apertura…) | `node tools/e2e.mjs` | 316/316 |
+| Prove nel browser (benvenuto, corsi, immersione, sincronizzazione, QR, sigilli, musica, voce, impostazioni, apertura…) | `node tools/e2e.mjs` | 320/320 |
 | Regole di interfaccia e accessibilità | `node tools/ux-audit.mjs` | nessun problema |
 | Documenti: link, ancore, parole vietate, strutture protette | `node tools/check-docs.mjs --strict` | 0 errori |
 | Lezioni con fonti esterne (solo sviluppo): CC-CEDICT + Tatoeba | `node tools/lezioni-check.mjs` | 0 errori certi; 8 «sospetti» riletti uno per uno e giusti nel contesto |

diff --git a/docs/sviluppo.md b/docs/sviluppo.md
@@ -564,7 +564,8 @@ La build si ferma se trova nel repository:
   fisso: nessuna libreria (rough.js non serve). Una pagina diventa un'immagine con il modello `zh-diary` di
   `ui/share-card.js` (3 formati, 3 colori, QR), solo dal tocco su «Condividi questa pagina». Niente esce dal telefono.
 - **Taccuino del viaggiatore, corso di italiano**: `CP.diary.card("it")` / `open("it")`, stesso modulo; le città sono quelle di `DIARY.stops` in ordine inverso con le soglie `DIARY.itTh` (lezioni superate, ≥ 80 % o `done`, da `cp-it-lessons-v1`) e le righe a mano `DIARY.itLines`; le frasi della pagina sono i primi tre `ex` della lezione che ha aperto la città. Niente `cp-ex-v1.conf` e niente condivisione.
-- **Scambio linguistico** (`src/ui/scambio.js` + `src/i18n/scambio.js`, caricati al primo uso di `CP.scambio`; `src/ui/scambio-stub.js` è la sezione sempre presente in ⚙ → Suoni e musica): consenso in `md-voice-consent` (senza `cp-`, fuori dai backup), registrazioni in IndexedDB `mandarino-voices-v1` (store `rec`, chiave `ref|lingua|n/x`), `MediaRecorder` su `CP.micStream()` con rilascio garantito, invio con `CP._zip`. Frasi da `PHRASES`, `DIALOGS`, `EXAMPLES` (riferimenti di `tools/review-sample.mjs`). Pagina del sito `docs/partecipa-voci.html` (copiata da `tools/site.mjs`, esclusa da `robots.txt` e dalla sitemap). Specifica e decisioni: `docs/scambio-linguistico.md`.
+- **Scambio linguistico** (`src/ui/scambio.js` + `src/i18n/scambio.js`, caricati al primo uso di `CP.scambio`; `src/ui/scambio-stub.js` è la sezione sempre presente in ⚙ → Suoni e musica): consenso in `md-voice-consent` (senza `cp-`, fuori dai backup), registrazioni in IndexedDB `mandarino-voices-v1` (store `rec`, chiave `ref|lingua|n/x`), `MediaRecorder` su `CP.micStream()` con rilascio garantito, invio con `CP._zip` (il file si prepara in anticipo, `send("mail")` usa `navigator.share` con il file o ripiega su download + `mailto:`, solo con `consent()` completo: ho capito, 18 anni, pubblicazione). Serie a caso di 10 (7 frasi + 3 parole, `w:<parola>`) da `PHRASES`, `DIALOGS`, `EXAMPLES` e dal vocabolario (riferimenti di `tools/review-sample.mjs`).
+  Anteprime dei link (Open Graph, 1200×630, tutto l'essenziale nel quadrato centrale di 630 px perché WhatsApp e WeChat ritagliano): `node tools/site.mjs --anteprime` rigenera `docs/img/anteprima.png` e `manifesto-og.png`. Pagina del sito `docs/partecipa-voci.html` (copiata da `tools/site.mjs`, esclusa da `robots.txt` e dalla sitemap). Specifica e decisioni: `docs/scambio-linguistico.md`.
 - **Prove su un telefono vero**: [docs/checklist-dispositivo.md](checklist-dispositivo.md).
 
 ## Laboratorio dei radicali (solo corso di cinese)

diff --git a/docs/checklist-dispositivo.md b/docs/checklist-dispositivo.md
@@ -11,7 +11,8 @@ telefono vero. Dieci minuti, prima di ogni release importante. Segna data, telef
 | **Musica in secondo piano**: 🎵 → «in secondo piano», poi blocca lo schermo | la musica continua, la notifica ha pausa, avanti, stop; stop la chiude davvero |
 | **Modalità aereo**: attivala e apri l'app | tutto funziona: studio, parole, frasi, lezioni, musica già scaricata; nessun errore |
 | **Widget «Oggi»** (piccolo e grande): aggiungili alla schermata Home | serie, ripassi e parola del giorno giusti; un tocco apre l'app nel punto giusto |
-| **Scambio linguistico**: ⚙ → Suoni e musica → Partecipa; leggi il foglio, spunta le due caselle, registra due frasi, riascoltale, mandale con «Condividi» | il foglio si legge intero; il pulsante resta spento finché non spunti entrambe le caselle; la registrazione parte e si ferma da sola a 8 s; dopo «Fine» l'indicatore del microfono del telefono si spegne entro pochi secondi; il file `.zip` si condivide; «Ritira il consenso» cancella tutto |
+| **Scambio linguistico**: ⚙ → Suoni e musica → Partecipa; leggi il foglio, spunta le tre caselle, registra una serie (frasi e parole a caso), riascolta, premi «Invia per e-mail» | il foglio si legge intero; il pulsante resta spento finché non spunti entrambe le caselle; la registrazione parte e si ferma da sola a 8 s; dopo «Fine» l'indicatore del microfono del telefono si spegne entro pochi secondi; si apre la scelta dell'e-mail con il file `.zip` già allegato (o, senza, si scarica il file e si apre la bozza); «Ritira il consenso» cancella tutto |
+| **Anteprima del link** del sito: manda <https://mandarinoapp.org/> e <https://mandarinoapp.org/manifesto.html> a un amico su WhatsApp e WeChat | l'immagine non viene tagliata: si vedono l'arancia e il nome (WhatsApp può aver bisogno di qualche ora per aggiornare l'anteprima vecchia) |
 | **Widget «Oggi» e «Pausa»**: guardali al mattino, al pomeriggio, la sera e dopo le 22 (o cambia l'ora del telefono) | sfondo e testi cambiano alle 6, 12, 17 e 22 (entro qualche minuto); mattina riflesso caldo a destra, sera arancione a sinistra, notte quasi nero con luna e senza pulsanti; la striscia di dieci segmenti segue le parole di oggi; la sera compare un proverbio; in cinese gli stessi quattro momenti |
 | **Widget «Pausa»** (4×1): «Studia 25′», attendi la fine; poi «☕ 5′» | il conto alla rovescia scorre da solo (anche a schermo bloccato); a 0 passa alla pausa e arriva un avviso; «Ferma» riporta a riposo; di notte (22–6) mostra «Riposo» |
 | **Scorciatoie** (pressione lunga sull'icona) | «Studia ora», «Orecchio», «Musica» aprono la cosa giusta |
